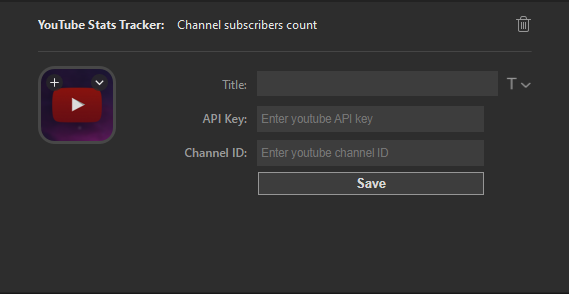
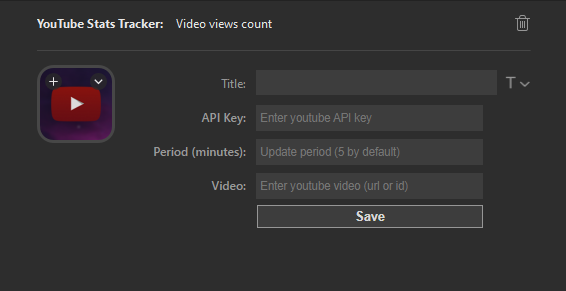
update readme

diff --git a/README.md b/README.md
@@ -16,7 +16,8 @@ The plugin provides information on the number of video views, likes, and comment
   - Views count
   - Videos count
 - Track YouTube stream statistics:
-  - Current online
+  - Current count of online viewers
+- Customize refresh period
 - Statistics refresh every 3 minutes
 - Pressing the button will open the corresponding video/channel
 - Cross-platform (macOS, Windows)
@@ -24,6 +25,12 @@ The plugin provides information on the number of video views, likes, and comment
 ![](Sources/com.nefrit.youtube.sdPlugin/screenshot.png)
 
 # Changes
+## 1.1.0
+* Track the current count of online viewers for YouTube translations.
+* Open a YouTube channel, video, or stream by pressing the action.
+* Ability to modify the update interval.
+* The default interval value has been updated from 3 minutes to 5 minutes.
+
 ## 1.0.0
 * We have finally released the plugin!
 

diff --git a/Sources/com.nefrit.youtube.sdPlugin/README.md b/Sources/com.nefrit.youtube.sdPlugin/README.md
@@ -17,6 +17,7 @@ The plugin provides information on the number of video views, likes, and comment
   - Videos count
 - Track YouTube stream statistics:
   - Current online
+- Customize refresh period
 - Statistics refresh every 3 minutes
 - Pressing the button will open the corresponding video/channel
 - Cross-platform (macOS, Windows)
@@ -24,6 +25,12 @@ The plugin provides information on the number of video views, likes, and comment
 ![](screenshot.png)
 
 # Changes
+## 1.1.0
+* Track the current count of online viewers for YouTube translations.
+* Open a YouTube channel, video, or stream by pressing the action.
+* Ability to modify the update interval.
+* The default interval value has been updated from 3 minutes to 5 minutes.
+
 ## 1.0.0
 * We have finally released the plugin!
 
